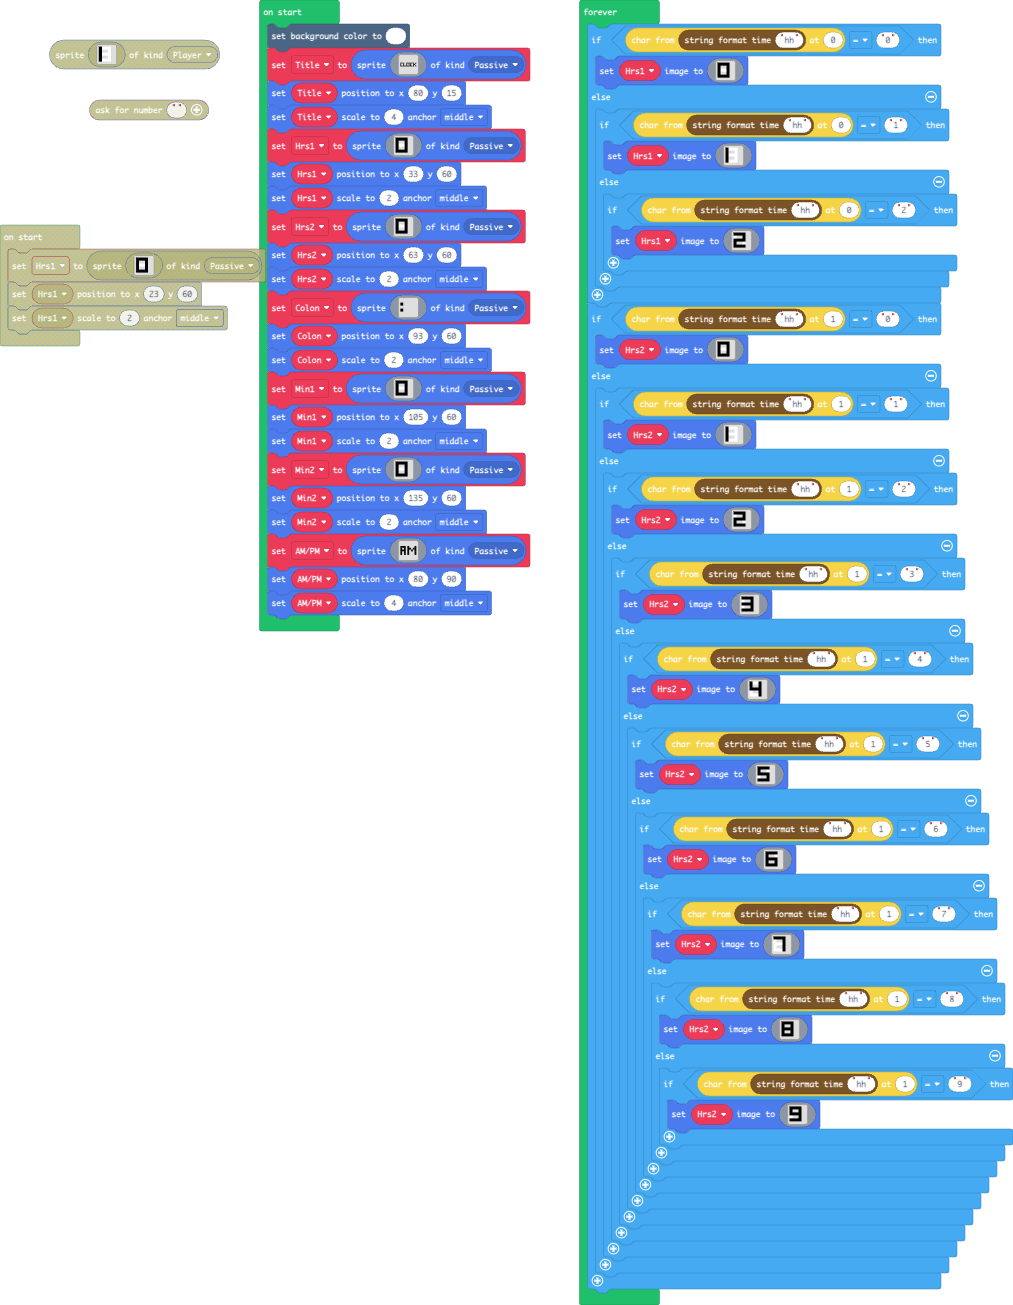
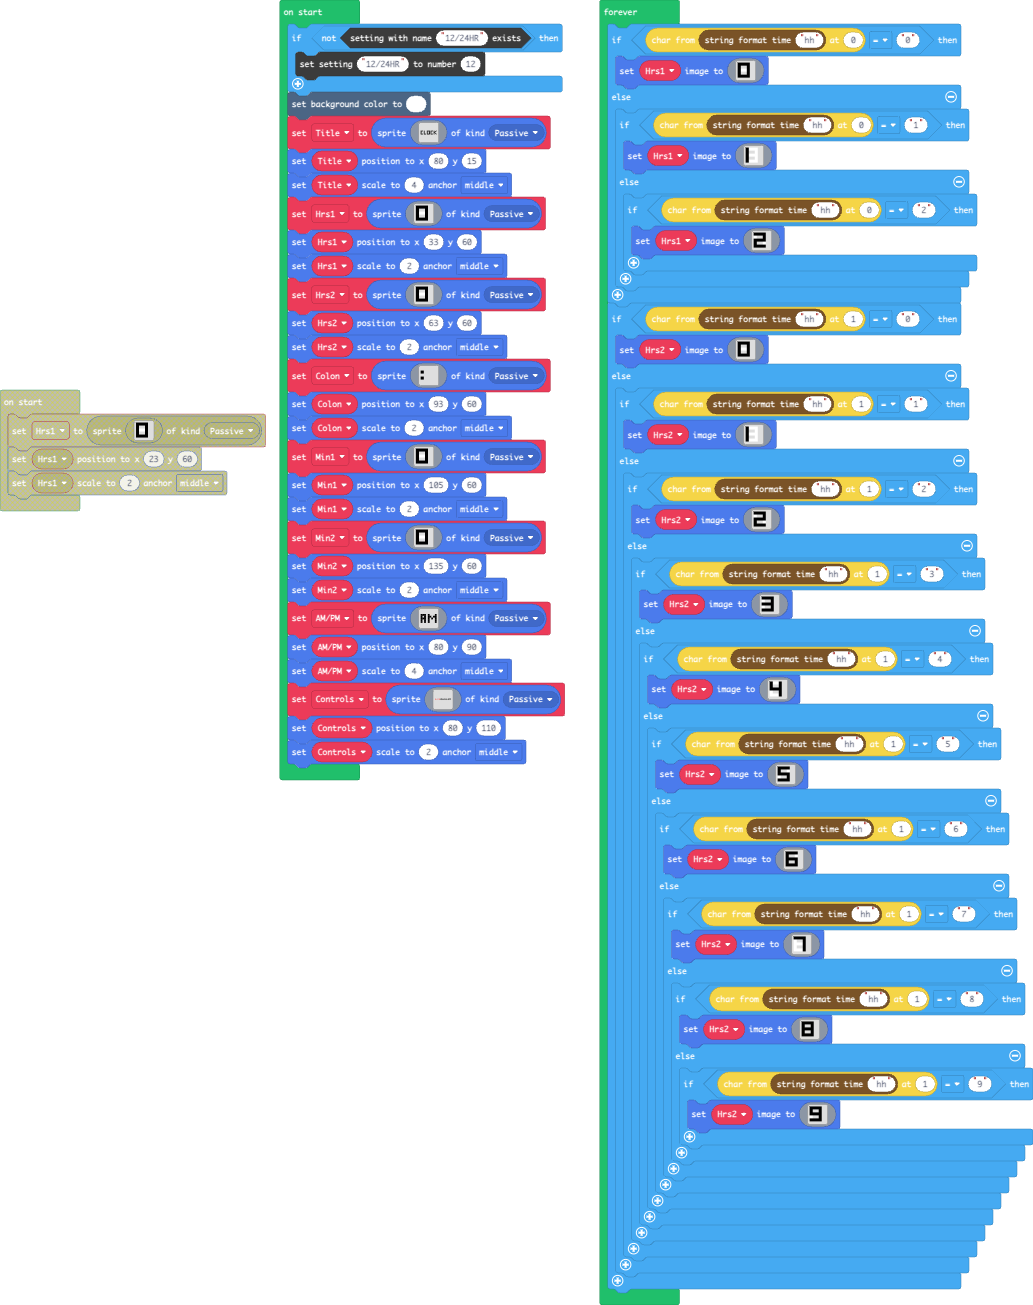
Update main.blocks, main.ts, images.g.jres, images.g.ts

diff --git a/images.g.ts b/images.g.ts
@@ -487,6 +487,14 @@ f f f f f f f f f f f f . . . .
 f f f f f f f f f f f f . . . . 
 . . . . . . . . . . . . . . . . 
 `;
+            case "image28":
+            case "Controls":return img`
+. . 2 . . . . . . . 2 . . . 2 . . . . . . . f f f . . . . . . . f . . f . . . . . f . . . . f f . . f f . . f f . 
+. 2 . . . . . . . 2 . . . . . 2 . . f f f . f . . . f . . . f . . . f f f . . . . f . . . . . . f . f . f . f . f 
+2 2 2 2 2 . . . 2 . . . 2 2 2 2 2 . . . . . f f f . f . . . f . f . . f . . f f . f f . . . . f f . f f . . f f . 
+. 2 . . . . . 2 . . . . . . . 2 . . f f f . . . f . f . f . f . f . . f . . f . . f . f . . f . f . f . . . f . . 
+. . 2 . . . 2 . . . . . . . 2 . . . . . . . f f f . . f . f . . f . . f . . f f . f . f . . . f f . f . . . f . . 
+`;
         }
         return null;
     })

diff --git a/main.ts b/main.ts
@@ -1,5 +1,12 @@
+enum RadioMessage {
+    message1 = 49434,
+    Open_Settings = 42499
+}
 namespace SpriteKind {
     export const Passive = SpriteKind.create()
+}
+if (!(blockSettings.exists("12/24HR"))) {
+    blockSettings.writeNumber("12/24HR", 12)
 }
 scene.setBackgroundColor(1)
 let Title = sprites.create(assets.image`Title`, SpriteKind.Passive)
@@ -23,6 +30,9 @@ Min2.setScale(2, ScaleAnchor.Middle)
 let AMPM = sprites.create(assets.image`AM`, SpriteKind.Passive)
 AMPM.setPosition(80, 90)
 AMPM.setScale(4, ScaleAnchor.Middle)
+let Controls = sprites.create(assets.image`Controls`, SpriteKind.Passive)
+Controls.setPosition(80, 110)
+Controls.setScale(2, ScaleAnchor.Middle)
 forever(function () {
     if (rtc.stringFormatTime("hh").charAt(0) == "0") {
         Hrs1.setImage(assets.image`Digit0`)
